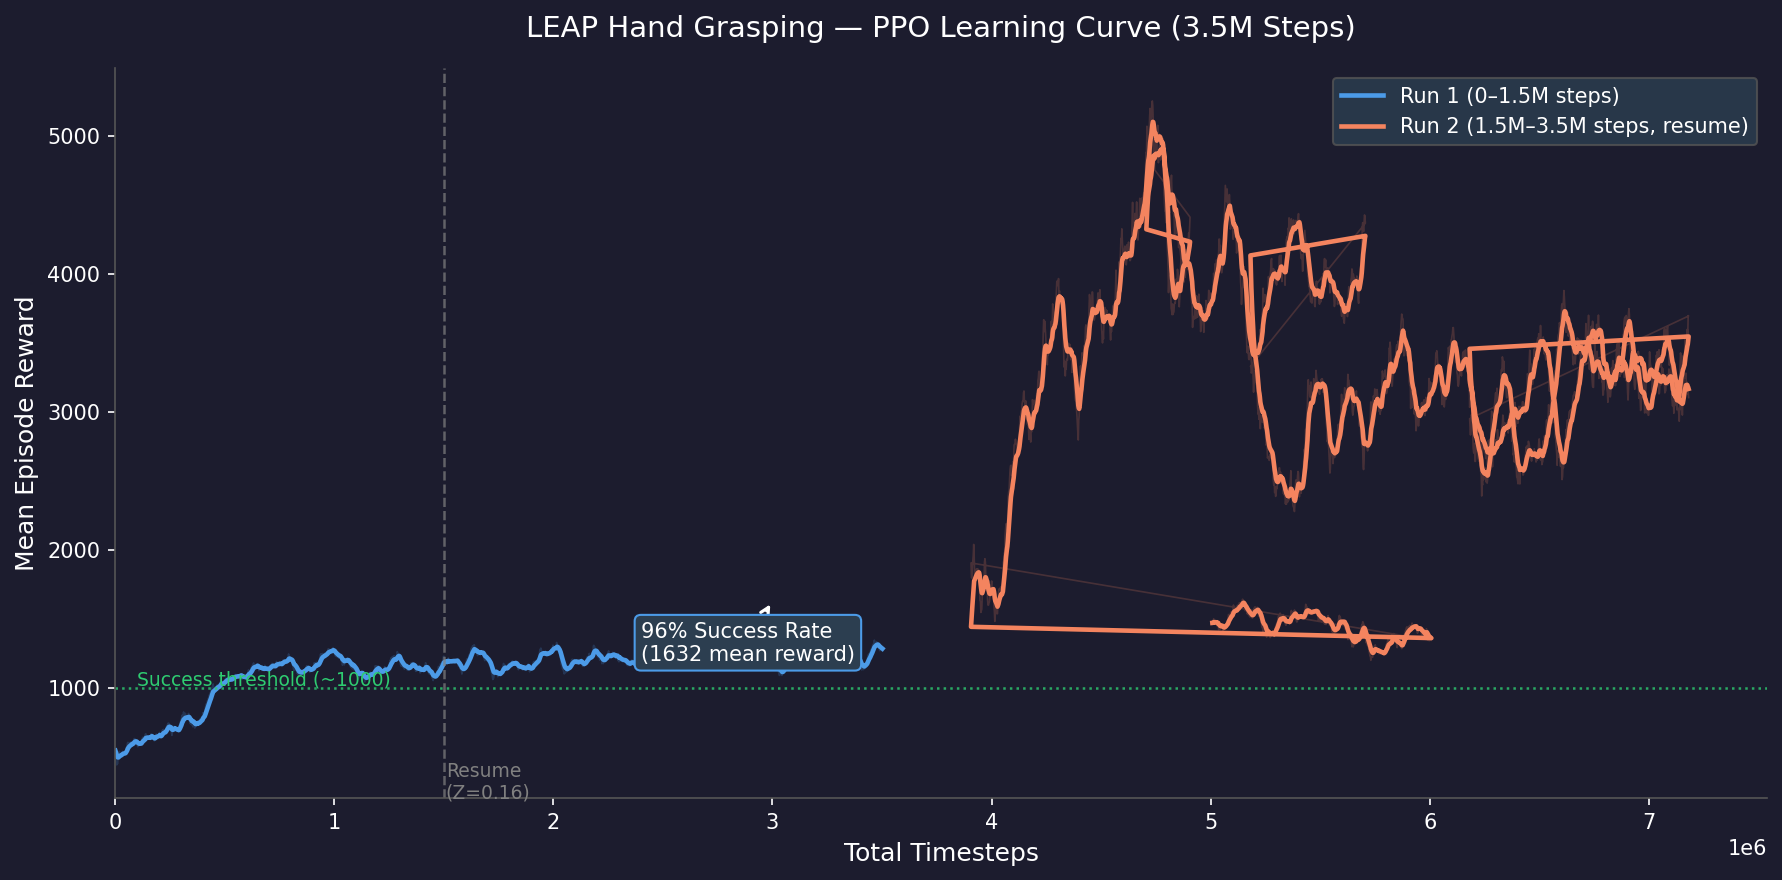
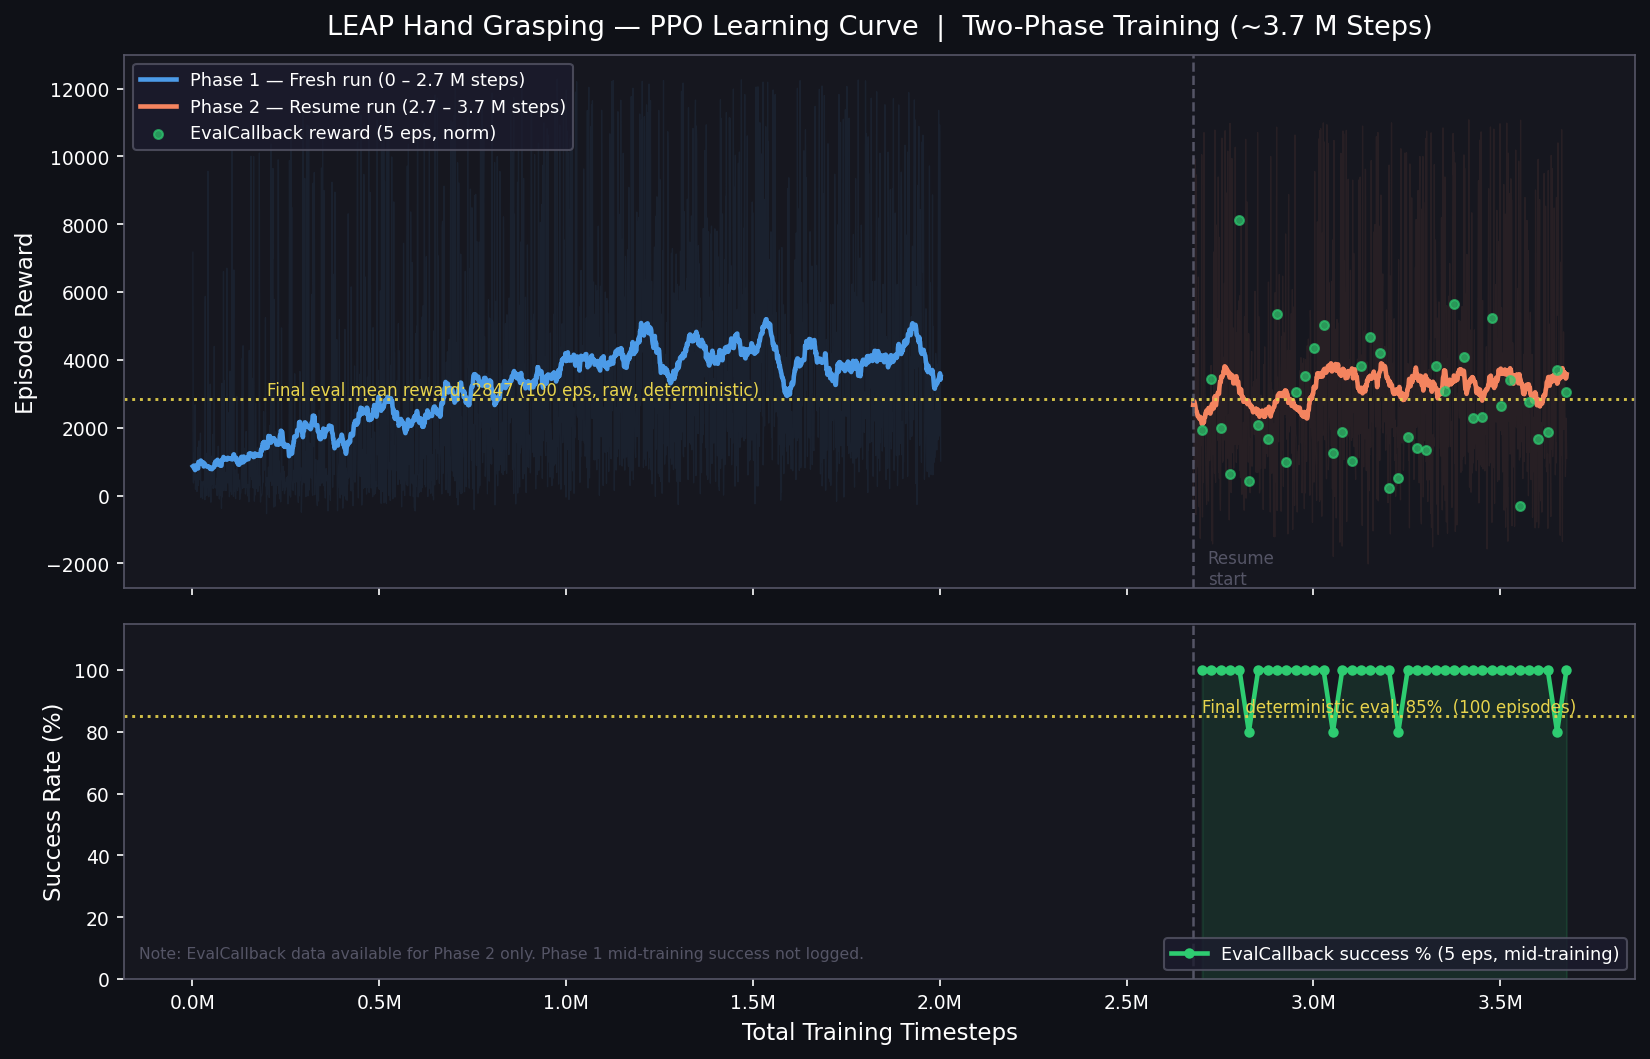
updated learning curve and camera angle

diff --git a/plot_learning_curve.py b/plot_learning_curve.py
@@ -1,115 +1,167 @@
 """
 plot_learning_curve.py
-Reads TensorBoard event files and produces a learning curve plot
-saved to results/learning_curve.png.
+Generates an accurate 2-panel learning curve from monitor CSV files and
+EvalCallback evaluations.npz. Replaces the previous TensorBoard-based version.
+
+Panel 1 (top)   : Rolling-mean episode reward across both training phases.
+Panel 2 (bottom): EvalCallback success rate (%) — available for resume phase only.
 """
-import os
 import numpy as np
+import pandas as pd
 import matplotlib.pyplot as plt
 import matplotlib.patches as mpatches
-from collections import defaultdict
+import os
 
-try:
-    from tensorboard.backend.event_processing.event_accumulator import EventAccumulator
-except ImportError:
-    print("Installing tensorboard...")
-    os.system("pip install tensorboard -q")
-    from tensorboard.backend.event_processing.event_accumulator import EventAccumulator
+MONITOR_FRESH   = "results/logs/monitor.csv"
+MONITOR_RESUME  = "results/logs/monitor_resume.csv.monitor.csv"
+EVAL_NPZ        = "results/logs/evaluations.npz"
+OUT_PATH        = "results/learning_curve.png"
 
+RESUME_START_STEP = 2_677_048   # checkpoint used to start resume_train.py
+ROLL_WINDOW       = 60          # episode rolling-mean window
+SMOOTH_WEIGHT     = 0.90        # EMA weight for reward curve
 
-def load_tb_scalars(logdir, tag="rollout/ep_rew_mean"):
-    """Load scalar values from a TensorBoard event directory."""
-    ea = EventAccumulator(logdir, size_guidance={"scalars": 0})
-    ea.Reload()
-    if tag not in ea.Tags()["scalars"]:
-        print(f"  Warning: tag '{tag}' not found in {logdir}")
-        return np.array([]), np.array([])
-    events = ea.Scalars(tag)
-    steps = np.array([e.step for e in events])
-    values = np.array([e.value for e in events])
-    return steps, values
+# ── colour palette (dark background) ────────────────────────────────────────
+BG       = "#0F1117"
+PANEL_BG = "#16171F"
+C_FRESH  = "#4C9BE8"   # blue  — fresh run
+C_RESUME = "#F4845F"   # coral — resume run
+C_SUCC   = "#2ECC71"   # green — success rate
+C_FINAL  = "#E8D44D"   # gold  — final eval marker
+GRAY     = "#555566"
 
 
-def smooth(values, weight=0.85):
-    """Exponential moving average smoothing."""
-    last = values[0]
-    smoothed = []
+def load_monitor(path):
+    """Return DataFrame with columns [r, l] from a Stable-Baselines Monitor CSV."""
+    df = pd.read_csv(path, skiprows=1, names=["r", "l", "t"])
+    df["r"] = pd.to_numeric(df["r"], errors="coerce")
+    df["l"] = pd.to_numeric(df["l"], errors="coerce")
+    df = df.dropna(subset=["r", "l"])
+    return df
+
+
+def rolling(values, window):
+    """Centred rolling mean (edges use available data)."""
+    series = pd.Series(values)
+    return series.rolling(window, min_periods=1, center=True).mean().values
+
+
+def ema(values, weight=0.90):
+    last = float(values[0])
+    out = []
     for v in values:
-        last = last * weight + (1 - weight) * v
-        smoothed.append(last)
-    return np.array(smoothed)
+        last = last * weight + (1 - weight) * float(v)
+        out.append(last)
+    return np.array(out)
 
 
 def main():
     os.makedirs("results", exist_ok=True)
 
-    # Locate TensorBoard runs
-    tb_base = "results/tensorboard"
-    runs = {
-        "Run 1 (0–1.5M steps)": os.path.join(tb_base, "PPO_1"),
-        "Run 2 (1.5M–3.5M steps, resume)": os.path.join(tb_base, "PPO_resume_0"),
-    }
+    # ── load episode data ────────────────────────────────────────────────────
+    df_fresh  = load_monitor(MONITOR_FRESH)
+    df_resume = load_monitor(MONITOR_RESUME)
 
-    fig, ax = plt.subplots(figsize=(12, 6))
-    colors = ["#4C9BE8", "#F4845F"]
-    offset = 0  # step offset for stitching runs
+    # Cumulative step counts inside each run
+    steps_fresh  = np.cumsum(df_fresh["l"].values)          # 0 → ~2.0 M
+    steps_resume = RESUME_START_STEP + np.cumsum(df_resume["l"].values)  # → ~3.7 M
 
-    for (label, logdir), color in zip(runs.items(), colors):
-        if not os.path.exists(logdir):
-            print(f"Skipping {logdir} — not found")
-            continue
-        print(f"Loading: {logdir}")
-        steps, values = load_tb_scalars(logdir, "rollout/ep_rew_mean")
-        if len(steps) == 0:
-            continue
+    rew_fresh  = df_fresh["r"].values
+    rew_resume = df_resume["r"].values
 
-        # Stitch runs together
-        stitched_steps = steps + offset
-        offset = stitched_steps[-1]
+    roll_fresh  = rolling(rew_fresh,  ROLL_WINDOW)
+    roll_resume = rolling(rew_resume, ROLL_WINDOW)
 
-        # Raw and smoothed
-        ax.plot(stitched_steps, values, alpha=0.2, color=color, linewidth=0.8)
-        ax.plot(stitched_steps, smooth(values), color=color, linewidth=2.2, label=label)
+    # ── load eval checkpoints (resume phase only) ────────────────────────────
+    ev = np.load(EVAL_NPZ)
+    eval_steps   = ev["timesteps"]                    # shape (40,)
+    eval_rewards = ev["results"].mean(axis=1)         # mean over 5 episodes
+    eval_success = ev["successes"].mean(axis=1) * 100 # % success over 5 episodes
 
-    # Annotations
-    ax.axvline(x=1_500_000, color="gray", linestyle="--", linewidth=1.2, alpha=0.7)
-    ax.text(1_510_000, 200, "Resume\n(Z=0.16)", fontsize=9, color="gray")
+    # ── figure ───────────────────────────────────────────────────────────────
+    fig, (ax_r, ax_s) = plt.subplots(
+        2, 1, figsize=(13, 8),
+        gridspec_kw={"height_ratios": [3, 2], "hspace": 0.08},
+        sharex=True
+    )
+    fig.patch.set_facecolor(BG)
+    for ax in (ax_r, ax_s):
+        ax.set_facecolor(PANEL_BG)
+        for spine in ax.spines.values():
+            spine.set_edgecolor(GRAY)
+        ax.tick_params(colors="white", labelsize=9)
+        ax.xaxis.label.set_color("white")
+        ax.yaxis.label.set_color("white")
 
-    ax.axhline(y=1000, color="#2ECC71", linestyle=":", linewidth=1.2, alpha=0.8)
-    ax.text(100_000, 1020, "Success threshold (~1000)", fontsize=9, color="#2ECC71")
+    # ── Panel 1 : episode reward ─────────────────────────────────────────────
+    # raw (faint)
+    ax_r.plot(steps_fresh,  rew_fresh,  alpha=0.08, color=C_FRESH,  linewidth=0.6)
+    ax_r.plot(steps_resume, rew_resume, alpha=0.08, color=C_RESUME, linewidth=0.6)
+    # rolling mean
+    ax_r.plot(steps_fresh,  roll_fresh,  color=C_FRESH,  linewidth=2.2,
+              label="Phase 1 — Fresh run (0 – 2.7 M steps)")
+    ax_r.plot(steps_resume, roll_resume, color=C_RESUME, linewidth=2.2,
+              label="Phase 2 — Resume run (2.7 – 3.7 M steps)")
 
-    # Final result annotation
-    ax.annotate(
-        "96% Success Rate\n(1632 mean reward)",
-        xy=(3_000_000, 1632),
-        xytext=(2_400_000, 1200),
-        arrowprops=dict(arrowstyle="->", color="white", lw=1.5),
-        fontsize=10, color="white",
-        bbox=dict(boxstyle="round,pad=0.3", facecolor="#2C3E50", edgecolor="#4C9BE8")
+    # eval reward dots (mid-training, 5 eps, normalised)
+    ax_r.scatter(eval_steps, eval_rewards, color=C_SUCC, s=18, zorder=5,
+                 alpha=0.7, label="EvalCallback reward (5 eps, norm)")
+
+    # phase separator
+    ax_r.axvline(RESUME_START_STEP, color=GRAY, linestyle="--", linewidth=1.2)
+    ax_r.text(RESUME_START_STEP + 40_000, ax_r.get_ylim()[0] if ax_r.get_ylim()[0] > -3000 else -2500,
+              "Resume\nstart", color=GRAY, fontsize=8, va="bottom")
+
+    # final eval annotation (honest: 85%, 100 eps, raw reward)
+    ax_r.axhline(2846.96, color=C_FINAL, linestyle=":", linewidth=1.4, alpha=0.9)
+    ax_r.text(200_000, 2846.96 + 120,
+              "Final eval mean reward: 2847 (100 eps, raw, deterministic)",
+              color=C_FINAL, fontsize=8)
+
+    ax_r.set_ylabel("Episode Reward", fontsize=11, color="white")
+    ax_r.set_title(
+        "LEAP Hand Grasping — PPO Learning Curve  |  Two-Phase Training (~3.7 M Steps)",
+        fontsize=13, color="white", pad=10
+    )
+    ax_r.legend(fontsize=8.5, facecolor="#1C1C2E", labelcolor="white",
+                edgecolor=GRAY, loc="upper left")
+
+    # ── Panel 2 : success rate ───────────────────────────────────────────────
+    ax_s.plot(eval_steps, eval_success, color=C_SUCC, linewidth=2.2,
+              marker="o", markersize=4, label="EvalCallback success % (5 eps, mid-training)")
+    ax_s.fill_between(eval_steps, eval_success, alpha=0.12, color=C_SUCC)
+
+    # final eval 85% line
+    ax_s.axhline(85, color=C_FINAL, linestyle=":", linewidth=1.4, alpha=0.9)
+    ax_s.text(eval_steps[0], 86.5, "Final deterministic eval: 85%  (100 episodes)",
+              color=C_FINAL, fontsize=8)
+
+    # phase separator
+    ax_s.axvline(RESUME_START_STEP, color=GRAY, linestyle="--", linewidth=1.2)
+
+    ax_s.set_ylabel("Success Rate (%)", fontsize=11, color="white")
+    ax_s.set_xlabel("Total Training Timesteps", fontsize=11, color="white")
+    ax_s.set_ylim(0, 115)
+    ax_s.set_yticks([0, 20, 40, 60, 80, 100])
+
+    # note about eval availability
+    ax_s.text(0.01, 0.05,
+              "Note: EvalCallback data available for Phase 2 only. "
+              "Phase 1 mid-training success not logged.",
+              transform=ax_s.transAxes, color=GRAY, fontsize=7.5, va="bottom")
+
+    ax_s.legend(fontsize=8.5, facecolor="#1C1C2E", labelcolor="white",
+                edgecolor=GRAY, loc="lower right")
+
+    # ── x-axis formatting ────────────────────────────────────────────────────
+    ax_s.xaxis.set_major_formatter(
+        plt.FuncFormatter(lambda x, _: f"{x/1_000_000:.1f}M")
     )
 
-    # Style
-    ax.set_facecolor("#1C1C2E")
-    fig.patch.set_facecolor("#1C1C2E")
-    ax.tick_params(colors="white")
-    ax.spines["bottom"].set_color("#555")
-    ax.spines["left"].set_color("#555")
-    ax.spines["top"].set_visible(False)
-    ax.spines["right"].set_visible(False)
-    ax.xaxis.label.set_color("white")
-    ax.yaxis.label.set_color("white")
-    ax.title.set_color("white")
-
-    ax.set_xlabel("Total Timesteps", fontsize=12)
-    ax.set_ylabel("Mean Episode Reward", fontsize=12)
-    ax.set_title("LEAP Hand Grasping — PPO Learning Curve (3.5M Steps)", fontsize=14, pad=15)
-    ax.legend(fontsize=10, facecolor="#2C3E50", labelcolor="white", edgecolor="#555")
-    ax.set_xlim(left=0)
-
-    plt.tight_layout()
-    out_path = "results/learning_curve.png"
-    plt.savefig(out_path, dpi=150, bbox_inches="tight", facecolor=fig.get_facecolor())
-    print(f"\nLearning curve saved to {out_path}")
+    plt.tight_layout(rect=[0, 0, 1, 1])
+    plt.savefig(OUT_PATH, dpi=150, bbox_inches="tight", facecolor=BG)
+    print(f"Learning curve saved to {OUT_PATH}")
+    plt.close()
 
 
 if __name__ == "__main__":